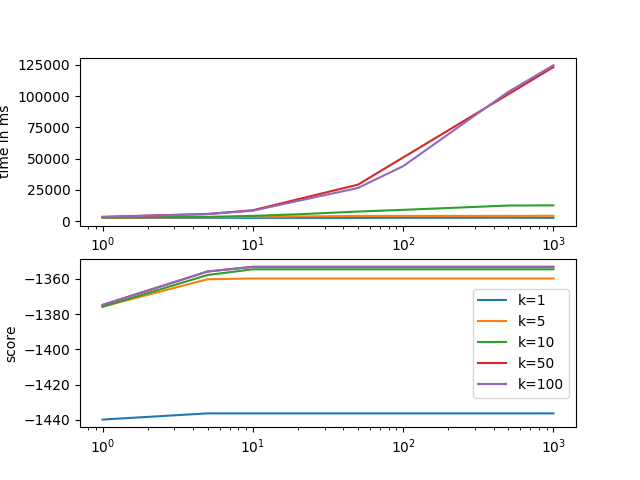
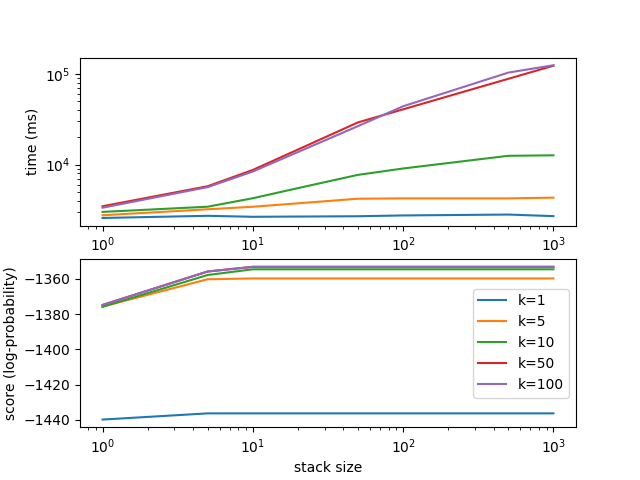
sorta mostly finished it by now remember that the number of segmentations is 2^(n-1)

diff --git a/doc/main.tex b/doc/main.tex
@@ -21,21 +21,22 @@
 
 \begin{document}
 \begin{questions}
-\question[10]{Experiment with stack pruning parameters. What is their affect on.'..}
+\question[10]{Experiment with stack pruning parameters. What is their affect on...}
 \begin{framed}
 \begin{compactenum}[a.]
 \item log-probabilities:\\
-  The log-probabilities go up with increases in $s$ and $k$, though seems to be no
-  significant increase past either $s > 10$ or $k > 10$. The log-probabilities
-  seem to plateau at around this point.
+  The log-probabilities go up with increases in $s$ and $k$, though there seems
+  to be no significant increase past either $s > 10$ or $k > 10$. The
+  log-probabilities plateau at around this point. 
 \item speed:\\
-  The speed goes down with increases in $s$ and $k$. For $k \leq 10$ the
-  decrease in speed is minimal, but for larger values of $k$, the impact of
-  increasing $s$ gets bigger and bigger.
+  The time seems to go up \emph{at most} linearly with increases in $s$, though
+  the curve gets steeper with increases in $k$. Note: in the graphs, both the
+  time and the stack size are plotted logarithmically.
 \item translations:
 \item maximum log-probability:\\
   The log-probability plateaus at $-1353.247828$.
 \end{compactenum}
+(See figure \ref{fig:exp-baseline}.)
 \end{framed}
 
 
@@ -69,7 +70,7 @@
   \)
   \(\!
   \begin{aligned}
-    &s(0,0,i,e) = \argmax_{s(k,j,i,e')e_{1}\dots e_{n}e}
+    &s(0,0,i,e) = \argmax_{s(k,j,i',e')e_{1}\dots e_{n}e}
     &&\log{p(s(k,j,i',e'))} + \log{\plm{e_{1}\dots e_{n}e \mid e'}}
     \\& &&+
     \begin{cases}
@@ -77,7 +78,7 @@
       &\text{if }k = 0 \land j = 0
       \\
       \log{\ptm{f_{k}\dots f_{j-1} \mid e_{1}\dots e_{n}e}}
-      &\text{otherwise}
+      &\text{if }i' = i
     \end{cases}
     \\
     &s(k,j,i,e) =
@@ -113,39 +114,42 @@
 \question[15] Experiment with stack pruning parameters for Part 2. What is their affect on...
 \begin{framed}
 \begin{compactenum}[a.]
-\item log-probabilities:
+\item log-probabilities:\\
+  The log-probabilities go up with increases in $s$ and $k$, though there seems
+  to be no significant increase past $s > 50$ and $k > 10$. The
+  log-probabilities plateau at this point. 
 \item speed:
+  The time seems to go up \emph{at most} linearly with increases in $s$, though
+  the curve gets steeper with increases in $k$.
 \item translations:
-\item maximum log-probability:
+\item maximum log-probability:\\
+  The log-probability plateaus at $-1300.526262$.
 \end{compactenum}
+(See figure \ref{fig:exp-part2}.)
 \end{framed}
 
 
 \question[10]{Define a new dynamic program for Part 3.}
 \begin{framed}
-  \(\!
-  \begin{aligned}
-    &s(0,0,0,e) =
-    \begin{cases}
-      \epsilon         &\text{if }e = \text{START}\\
-      \text{undefined} &\text{otherwise}
-    \end{cases}
-  \end{aligned}
-  \)
+  For Part 2, our program had the choice of either translating the next phrase,
+  or leaving a hole---of exactly one phrase---and translating a phrase following
+  that. However, if it chooses to leave a hole, it had to translate the hole
+  immediately after, as a consequence of the swapping constraint. 
+  The description of Part 3 implies that \emph{this} program can translate any
+  number of phrases before going back and translating the hole, as long as it
+  never left more than one hole, and never one of more than one phrase. 
+  \\
+  The definition of Part 3 is very similar to that of Part 2, sharing---for
+  starters---the same auxiliary definition and the same basic form of
+  $s(k,j,i,e)$, which I will not repeat here. The only real difference is in the
+  final equation, in which it is now possible to continue translating phrases
+  while there is a hole.
+  \\
   \\
   \(\!
   \begin{aligned}
-    &s(0,0,i,e) = \argmax_{s(k,j,i,e')e_{1}\dots e_{n}e}
-    &&\log{p(s(k,j,i',e'))} + \log{\plm{e_{1}\dots e_{n}e \mid e'}}
-    \\& &&+
-    \begin{cases}
-      \log{\ptm{f_{i'+1}\dots f_{i} \mid e_{1}\dots e_{n}e}}
-      &\text{if }k = 0 \land j = 0
-      \\
-      \log{\ptm{f_{k}\dots f_{j-1} \mid e_{1}\dots e_{n}e}}
-      &\text{otherwise}
-    \end{cases}
-    \\
+    &s(0,0,0,e) = \ldots\\
+    &s(0,0,i,e) = \ldots\\
     &s(k,j,i,e) =
     \argmax_{s(k',j',i',e')e_{1}\dots e_{n}e}
     &&\log{p(s(k',j',i',e'))} + \log{\plm{e_{1}\dots e_{n}e \mid e'}} 
@@ -169,12 +173,41 @@
 
 \question[5]{What is the mapping from hypothesis objects to stacks for Part 3?}
 \begin{framed}
+  Hypothesis objects are mapped to stacks in the same way as in Part 2.
 \end{framed}
 
 
 \addtocounter{question}{1}
 \question[5]{What is the maximum log-probability your Part 3 decoder can obtain? What do you conclude?}
 \begin{framed}
+  $-1278.680068$, with $s = 2000, k = 100$. For further increases of $s$,
+  the score does not improve, and given the fact that the score does not change
+  between $s = 1000, k = 50$ and $s = 1000, k = 100$ I am guessing that further
+  increases of $k$ will not make a difference either.
+  Therefore, this is likely the best log-probability which my Part 3 decoder can
+  obtain, and is significantly better than the top scores for my Part 2 decoder.
+  However, with a runtime of just under half an hour, $s$ is impractically large
+  at this point. Especially since we can get a score of $-1281.046784$ at
+  \emph{one-tenth} the runtime using $s = 500, k = 10$. 
+  \\
+  All in all, our scores tell us that the Part 3 decoder is an improvement over
+  the Part 2 decoder: the difference between the best for Part 3 and Part 2 is
+  about half as big as the difference between Part 2 and Part 1.
+  \\
+  If we think about it from a linguistic perspective, this makes sense. Our
+  swapping decoder would fix a lot of things such as French adjectives, which
+  are binary swaps. Longer distance dependences, which I suppose are less
+  frequent, would still be translated to the wrong position. The thing which may
+  not make sense is that we can only move single phrases. For instance, if we
+  translate from an SVO language to an SOV language, we may want to move a
+  complex object. We would be able to do this \emph{only} if the object, in its
+  entirety, were present in the phrase table. A program allowing a sequence of
+  phrases to be displaced might work better, but also would massively inflate
+  the number of possible translations. A program which uses swaps in the parse
+  tree would perform better, but we cannot just assume we have a parse tree.
+  \\
+  \\
+  (See figure \ref{fig:exp-part3}. Data for $s > 1000$ not included.)
 \end{framed}
 \end{questions}
 

diff --git a/plots.py b/plots.py
@@ -24,11 +24,13 @@ def create_plot(filename):
 
     plt.figure()
     plt.subplot(211)
+    plt.yscale('log')
     plt.xscale('log')
-    plt.ylabel('time in ms')
+    plt.ylabel('time (ms)')
     plt.subplot(212)
     plt.xscale('log')
-    plt.ylabel('score')
+    plt.ylabel('score (log-probability)')
+    plt.xlabel('stack size')
 
     for (i, group) in data:
         confs, times, scores = zip(*group)
@@ -47,3 +49,4 @@ def create_plot(filename):
 
 create_plot('default')
 create_plot('part2')
+create_plot('part3')
